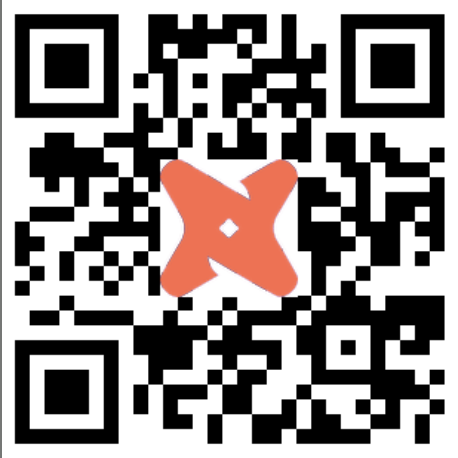
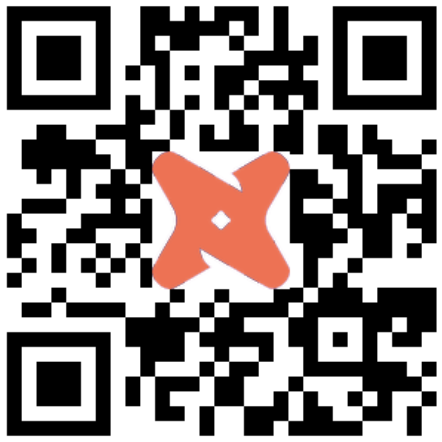
docs: lay out presentation images and transparent QR codes (#33)

diff --git a/presentation/from-data-ingestion-to-context-engineering.md b/presentation/from-data-ingestion-to-context-engineering.md
@@ -73,6 +73,55 @@ style: |
     max-width: 100%;
     object-fit: contain;
   }
+  /* The image takes the space left under the title and is contained in it, so
+     it can never overflow the slide. */
+  section.thanks {
+    display: grid;
+    grid-template-columns: 1fr 1fr 1fr;
+    grid-template-rows: auto 1fr;
+    column-gap: 2rem;
+    align-content: start;
+    text-align: center;
+  }
+  section.thanks h1 {
+    grid-column: 1 / -1;
+  }
+  section.thanks p:has(> img:only-child) {
+    margin: 0;
+    align-self: center;
+  }
+  section.thanks img {
+    width: 100%;
+    max-height: 440px;
+    object-fit: contain;
+  }
+  section.thanks div {
+    align-self: center;
+  }
+  section.centered {
+    display: flex;
+    flex-direction: column;
+    text-align: center;
+  }
+  section.centered p:has(> img:only-child) {
+    flex: 1 1 auto;
+    min-height: 0;
+    display: flex;
+    align-items: center;
+    justify-content: center;
+    margin: 0;
+  }
+  section.centered img {
+    width: auto;
+    height: auto;
+    max-width: 100%;
+    max-height: 100%;
+    object-fit: contain;
+  }
+  section.centered.shrink img {
+    width: 90%;
+    height: 90%;
+  }
 ---
 
 <script type="module">
@@ -266,6 +315,8 @@ flowchart LR
 
 ---
 
+<!-- _class: centered shrink -->
+
 # Enter ELT!
 
 ![](./images/etl-vs-elt.png)
@@ -325,34 +376,51 @@ Recently it moved to **dbt v2**, under the Apache 2.0 license: <https://github.c
 
 ---
 
+<!-- _class: centered shrink -->
+
 # How dbt interacts with the data ecosystem
 
 ![](./images/dbt-in-data-space.png)
 
 ---
 
+<!-- _class: split -->
+
 # How is the transformation done?
+
+<div>
 
 Transformation in dbt is structured as a project with source code in SQL, YAML
 and Python.
 
-<!-- Image: dbt project structure -->
+</div>
+
 ![](./images/dbt-project-structure.png)
 
 ---
 
+<!-- _class: split -->
+
 # How is the transformation done?
+
+<div>
 
 Transformation in dbt is structured as a project with source code in SQL, YAML
 and Python.
 
 The tables loaded by the Extract & Load step are declared as **sources**.
 
+</div>
+
 ![](./images/dbt-sources.png)
 
 ---
 
+<!-- _class: split -->
+
 # How is the transformation done?
+
+<div>
 
 Transformation in dbt is structured as a project with source code in SQL, YAML
 and Python.
@@ -361,11 +429,17 @@ The tables loaded by the Extract & Load step are declared as **sources**.
 
 Sources are then exposed through **models**, written as *SQL selects*.
 
+</div>
+
 ![](./images/dbt-models.png)
 
 ---
 
+<!-- _class: split -->
+
 # How is the transformation done?
+
+<div>
 
 Transformation in dbt is structured as a project with source code in SQL, YAML
 and Python.
@@ -376,6 +450,8 @@ Sources are then exposed through **models**, written as *SQL selects*.
 
 With those models we can structure the **business rules** of the transformation
 and change them easily when needed.
+
+</div>
 
 ![](./images/dbt-business-rules.png)
 
@@ -398,6 +474,8 @@ The project can be **tested** so your data ships to production safely.
 ![](./images/dbt-tests.png)
 
 ---
+
+<!-- _class: centered shrink -->
 
 # ELT run with dbt
 
@@ -482,11 +560,18 @@ ask it to read staging or raw to show ACCESS_DENIED. Fallback: task mcp:smoke.
 
 ---
 
+<!-- _class: thanks -->
+
 # Thank you!
+
+![dbt QR code](./images/qr-code-dbt.png)
+
+<div>
 
 getdbt.com
 
 @danielbdias
 
-![](./images/qr-code-dbt.png)
-![](./images/qr-code-personal.png)
+</div>
+
+![LinkedIn QR code](./images/qr-code-personal.png)
